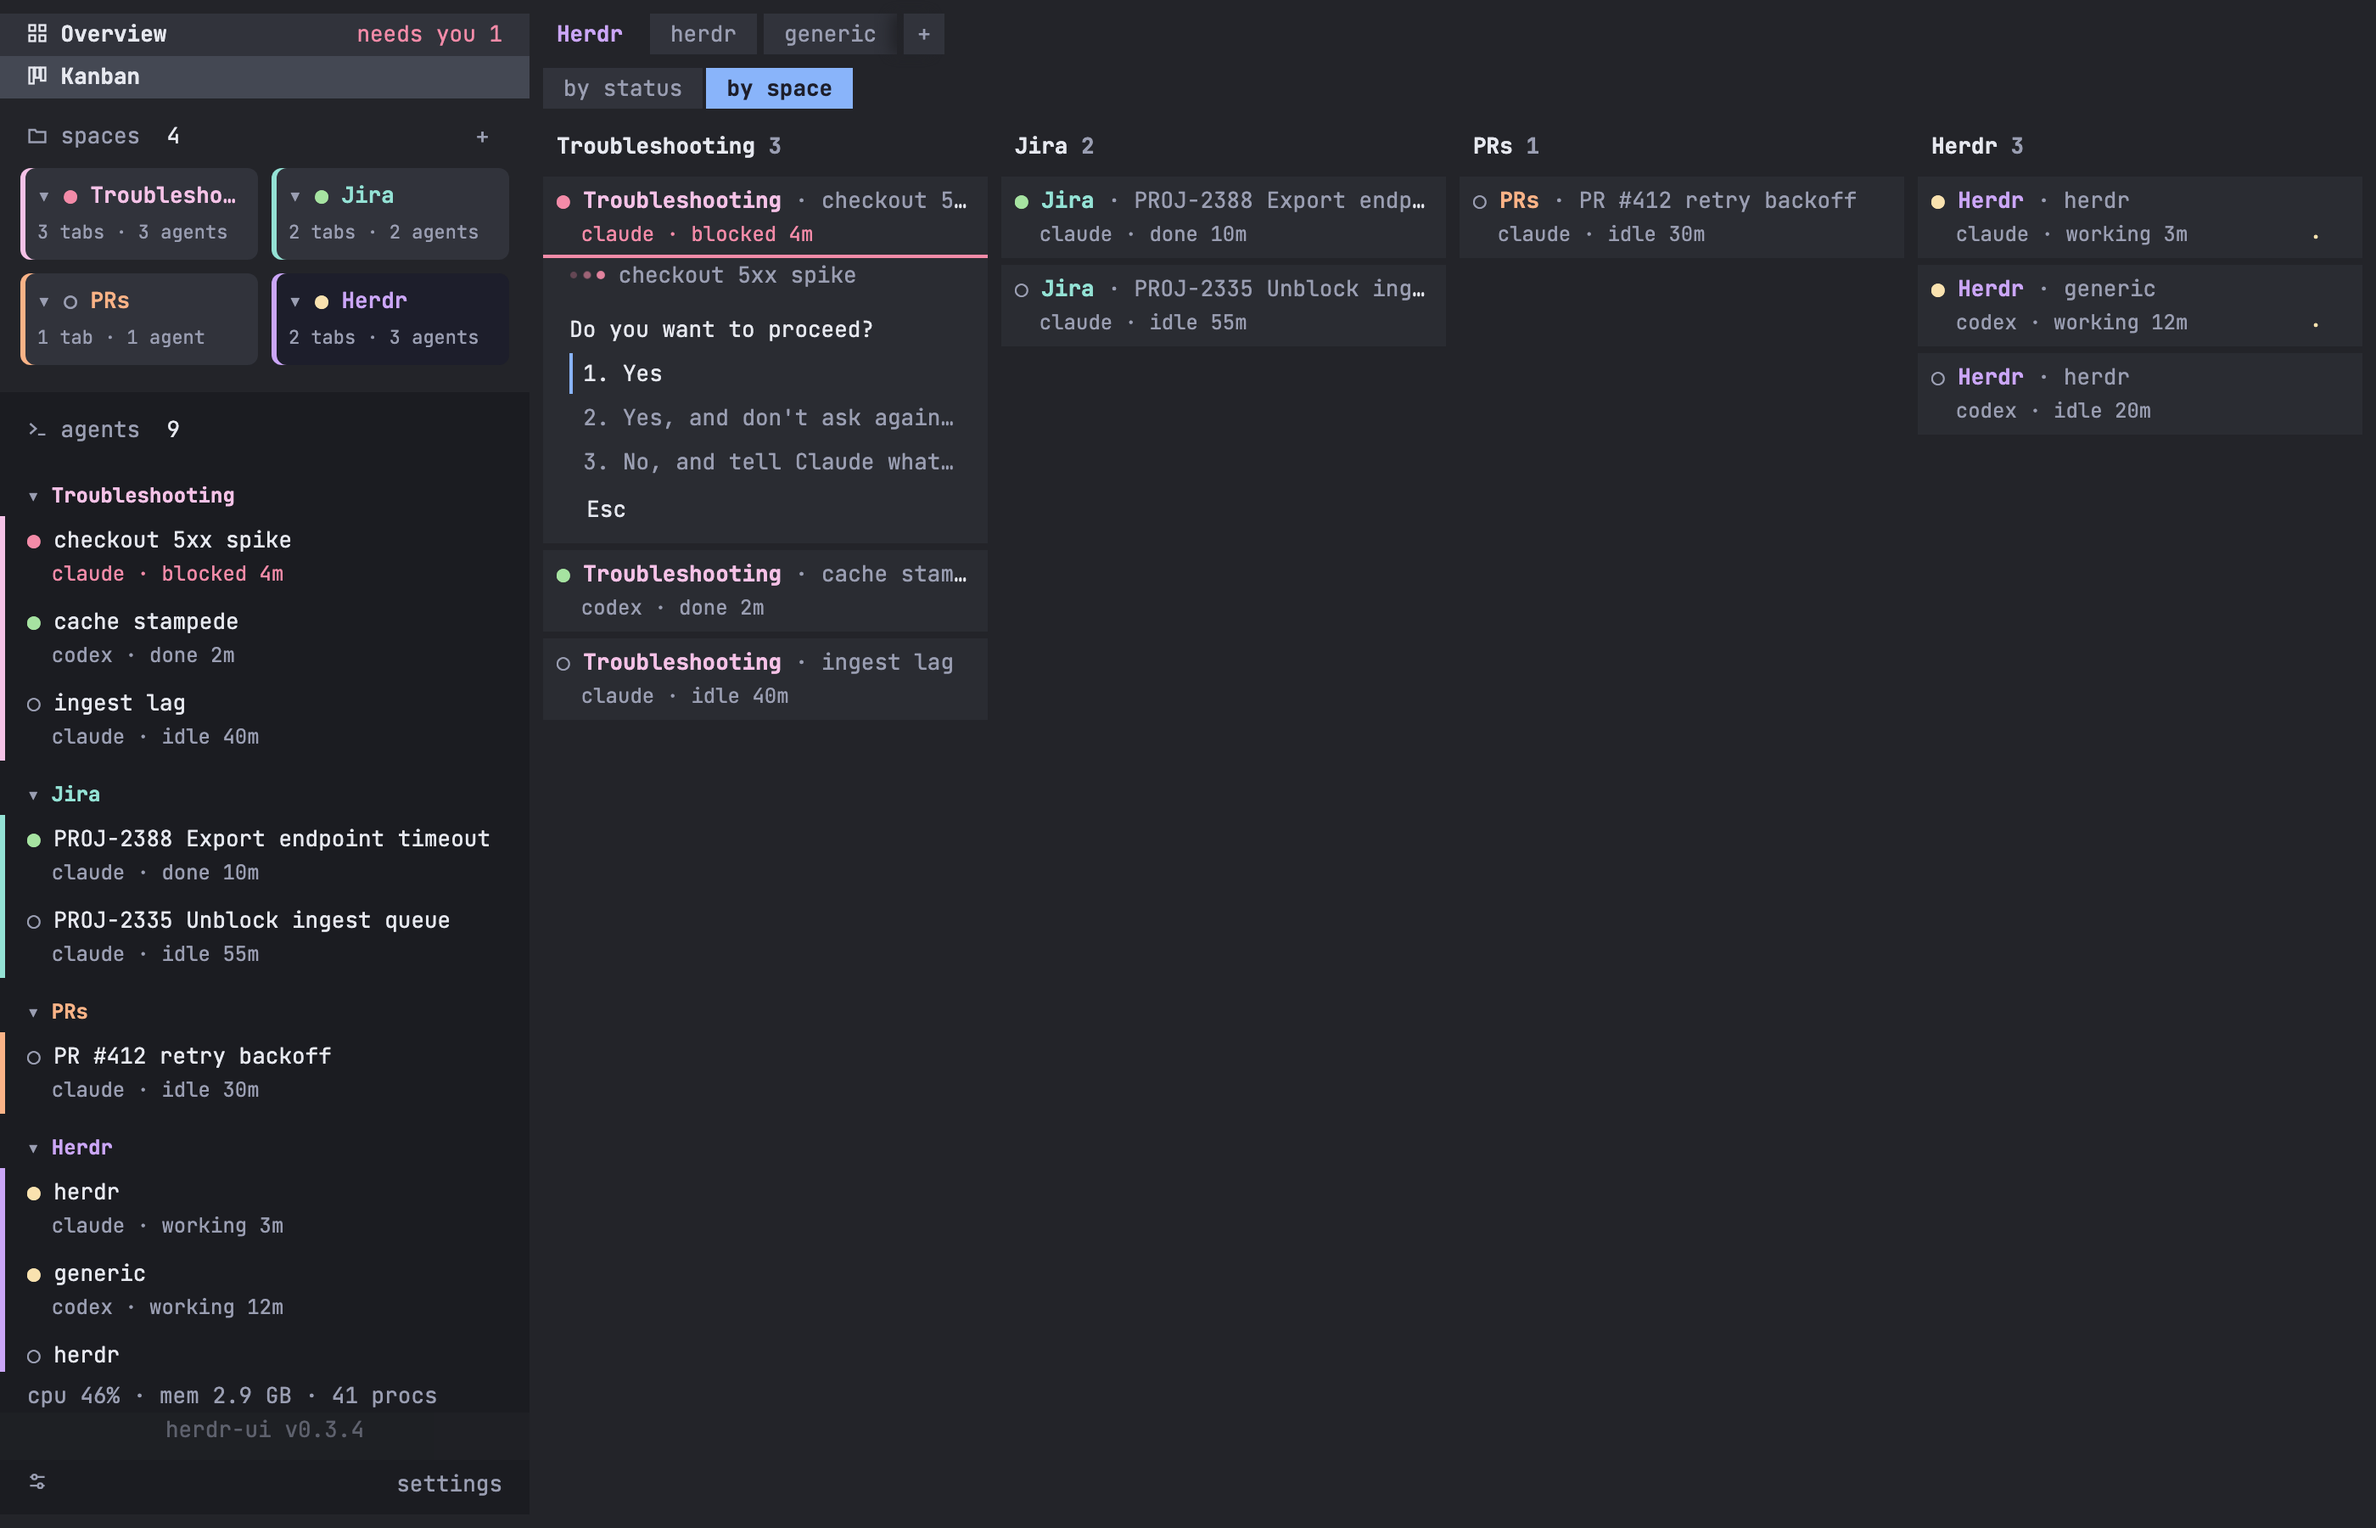
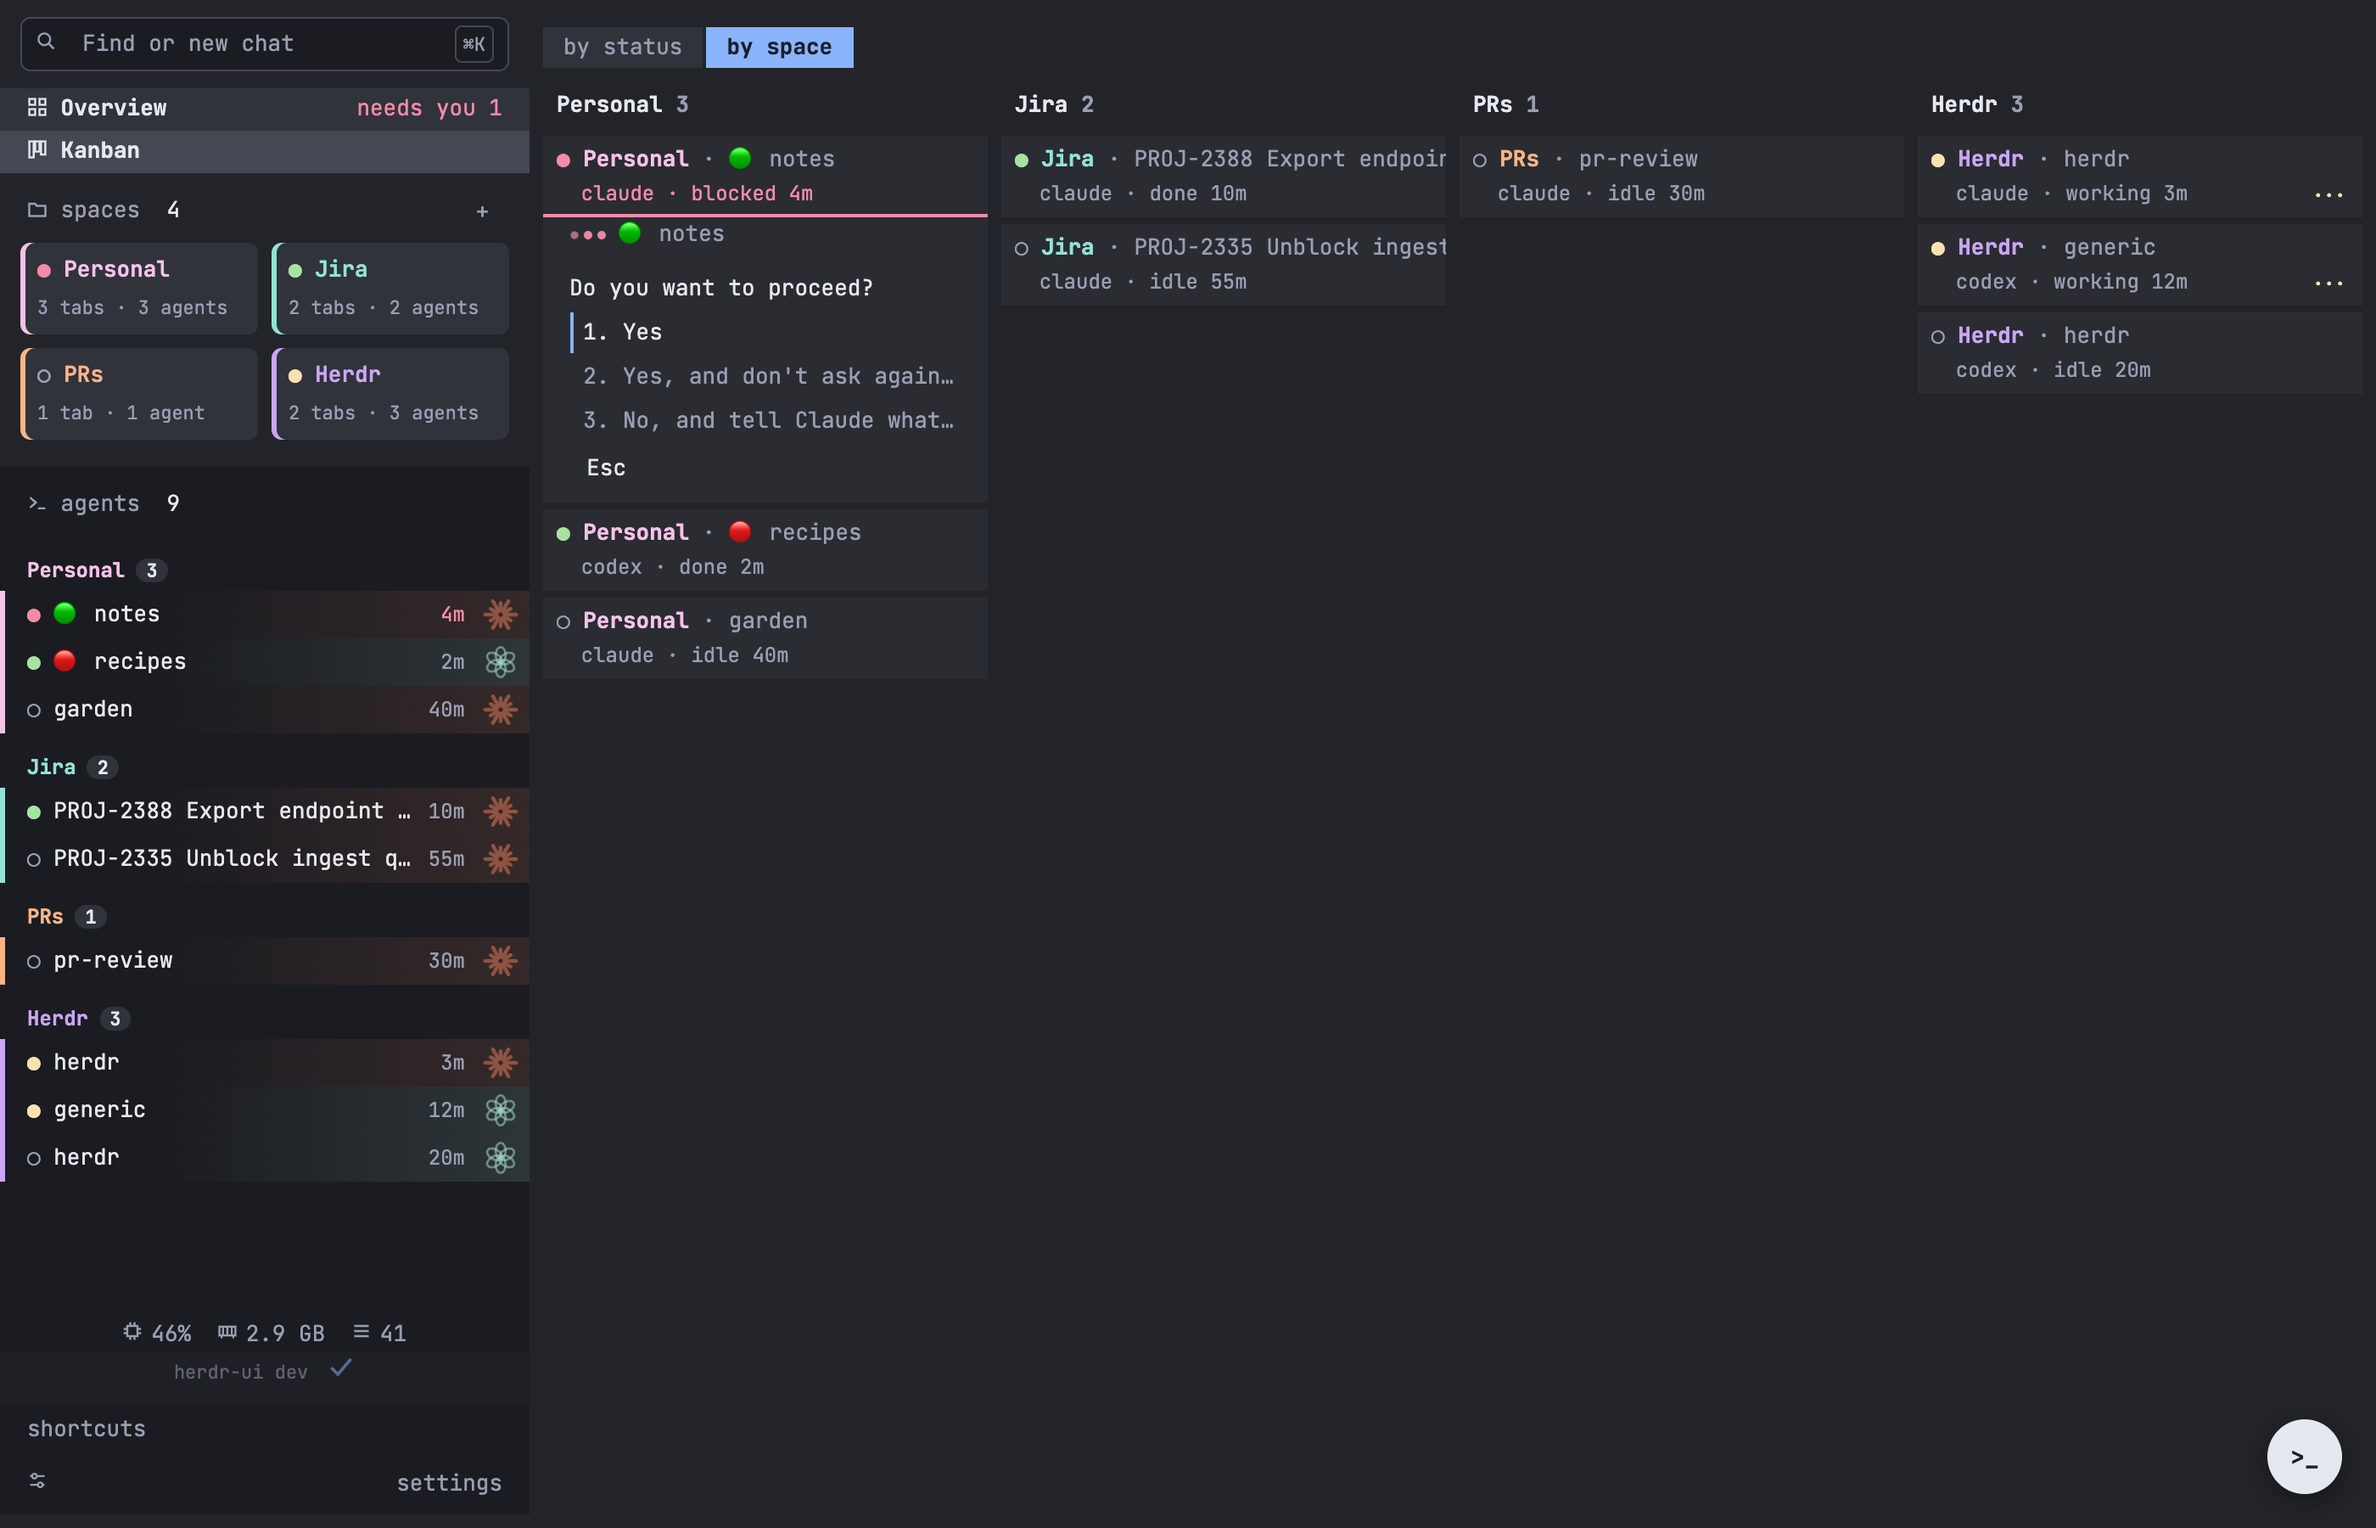
docs(herdr-ui): v0.7 on the landing page: overview up to four, drag to reorder, pane actions and layouts, herdr updates from Settings, new screenshots (#15)

diff --git a/herdr-ui/index.html b/herdr-ui/index.html
@@ -200,15 +200,15 @@ footer a:hover { color:var(--fg); }
         <div>
           <div class="icon"><svg viewBox="0 0 24 24"><rect x="3" y="3" width="7" height="7" rx="1.5"/><rect x="14" y="3" width="7" height="7" rx="1.5"/><rect x="3" y="14" width="7" height="7" rx="1.5"/><rect x="14" y="14" width="7" height="7" rx="1.5"/></svg></div>
           <h2>Live <span class="grad">Overview</span></h2>
-          <p style="color:var(--body)">Everything that runs, in one place. Two live terminals side by side, the rest a page turn away.</p>
+          <p style="color:var(--body)">Everything that runs, in one place. Up to four live terminals at once, the rest a page turn away.</p>
         </div>
         <div class="points">
           <div style="--c:var(--pink)"><b>It picks for you</b>Blocked agents first, then working ones and the ones that finished in the last five minutes. Idle agents leave.</div>
           <div style="--c:var(--cyan)"><b>Pin or hide</b>A pinned agent stays in the overview, whatever its status, and comes first. A hidden one stays out until it blocks; <code>N hidden</code> brings it back.</div>
           <div style="--c:var(--green)"><b>Cells stay put</b>A status change never moves a cell, so you never click the wrong terminal.</div>
-          <div style="--c:var(--orange)"><b>Spaces in the sidebar</b>Jira, PRs, Troubleshooting. Each space starts folded, with a badge of its agent count. One line per agent: its tab, the time in its status, and a soft Claude, Codex or Cursor mark behind it.</div>
-          <div style="--c:var(--pink)"><b>Pages, not clutter</b>Two terminals at a time. <code>&lt;&lt;</code> / <code>&gt;&gt;</code> or ⇧⌘[ / ⇧⌘] slide to the next ones.</div>
-          <div style="--c:var(--cyan)"><b>Keyboard first</b>⌘T new tab, ⌘N new space, ⌘D split, ⌘W close, ⌘R reload. ⌘/ lists them all.</div>
+          <div style="--c:var(--orange)"><b>Spaces in the sidebar</b>Jira, PRs, Troubleshooting, each with a badge of its agent count. One line per agent: its tab, the time in its status, and a soft Claude, Codex or Cursor mark behind it. Drag spaces and tabs to put them in your order.</div>
+          <div style="--c:var(--pink)"><b>Pages, not clutter</b>One to four terminals at a time, two by two for four: you pick at first launch or in Settings. <code>&lt;&lt;</code> / <code>&gt;&gt;</code> or ⇧⌘[ / ⇧⌘] slide to the next ones.</div>
+          <div style="--c:var(--cyan)"><b>Keyboard first</b>⌘T new tab, ⌘N new space, ⌘D split, ⌘W close, ⌘R reload. ⌘/ lists them all. In a tab, each pane header zooms, renames its agent or closes it, and <code>layouts</code> saves the tab's splits to open again later.</div>
         </div>
       </div>
       <div class="frame"><div class="bar"><i></i><i></i><i></i><span>herdr-ui · Overview</span></div><img src="overview.png" width="2800" height="1800" alt="The overview: a blocked agent and a working one side by side, and a pager to the next two" loading="lazy"></div>
@@ -315,7 +315,7 @@ footer a:hover { color:var(--fg); }
       <div class="rv"><div class="icon"><svg viewBox="0 0 24 24"><path d="M4 17l6-6-6-6"/><path d="M12 19h8"/></svg></div><b>Same session</b><p>Talks to herdr through its CLI and socket. Your spaces, tabs and agents show up as they are.</p></div>
       <div class="rv" style="--i:1"><div class="icon"><svg viewBox="0 0 24 24"><rect x="3" y="4" width="18" height="14" rx="2"/><path d="M8 21h8"/></svg></div><b>Browser or app</b><p>One Go binary serves the UI. Use it in the browser, or as the macOS app.</p></div>
       <div class="rv" style="--i:2"><div class="icon"><svg viewBox="0 0 24 24"><rect x="5" y="11" width="14" height="10" rx="2"/><path d="M8 11V7a4 4 0 0 1 8 0v4"/></svg></div><b>Local only</b><p>It listens on 127.0.0.1. Your sessions, folders and chats never leave your machine. It sends one anonymous ping a day (version, a random install id) to count active installs; feature stats are opt-in.</p></div>
-      <div class="rv" style="--i:3"><div class="icon"><svg viewBox="0 0 24 24"><path d="M21 12a9 9 0 1 1-3-6.7L21 8"/><path d="M21 3v5h-5"/></svg></div><b>One-click updates</b><p>A popup says when a new version is out. Update installs it and shows each step; What's new lists the changes.</p></div>
+      <div class="rv" style="--i:3"><div class="icon"><svg viewBox="0 0 24 24"><path d="M21 12a9 9 0 1 1-3-6.7L21 8"/><path d="M21 3v5h-5"/></svg></div><b>One-click updates, herdr too</b><p>A popup says when a new herdr-ui is out; Update installs it and What's new lists the changes. Settings › herdr updates herdr itself and restarts its server without closing your agents; Integrations and Plugins keep the agent hooks and herdr plugins in shape.</p></div>
     </div>
   </section>
 
